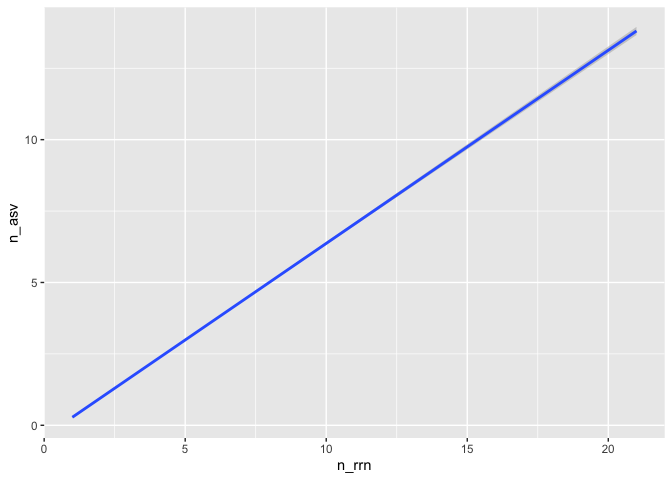
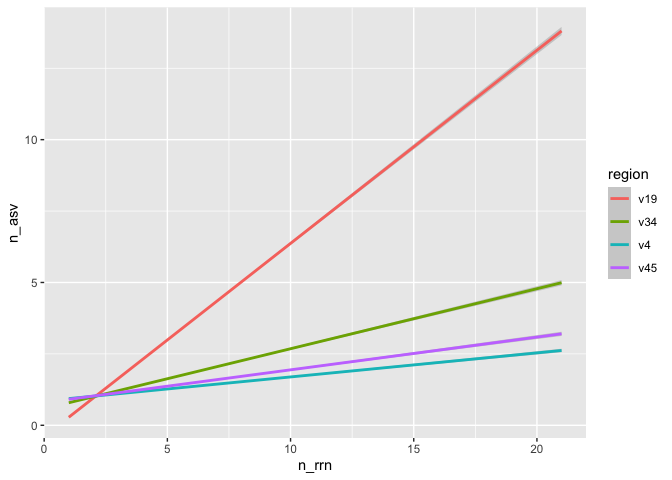
Combine the count_tibble files and update genome-level exploratory analysis, closes #23

diff --git a/exploratory/2020-09-09-genome-sens-spec.md b/exploratory/2020-09-09-genome-sens-spec.md
@@ -11,29 +11,27 @@ Pat Schloss
 
 Our analysis will use full length sequences
 
-    fl <- read_tsv(here("data/v19/rrnDB.count_tibble"))
-
-    ## Parsed with column specification:
-    ## cols(
-    ##   asv = col_character(),
-    ##   genome = col_character(),
-    ##   count = col_double()
-    ## )
+    count_tibble <- read_tsv(here("data/processed/rrnDB.count_tibble"),
+                                                     col_types = "cccd")
 
 We want to count and plot the number of copies per genome
 
-    fl %>%
+    count_tibble %>%
+        filter(region == "v19") %>%
         group_by(genome) %>%
         summarize(n_rrn = sum(count), .groups="drop") %>%
         ggplot(aes(x=n_rrn)) + geom_histogram(binwidth=1)
 
 ![](2020-09-09-genome-sens-spec_files/figure-gfm/n_rrn-1.png)<!-- -->
 
-    fl %>%
+    count_tibble %>%
+        filter(region == "v19") %>%
         group_by(genome) %>%
-        summarize(n_rrn = sum(count), .groups="drop") %>%
+        summarize(n_rrn = sum(count)) %>%
         count(n_rrn) %>%
         mutate(fraction = n / sum(n))
+
+    ## `summarise()` ungrouping output (override with `.groups` argument)
 
     ## # A tibble: 20 x 3
     ##    n_rrn     n  fraction
@@ -69,171 +67,65 @@ Considering most genomes have multiple copes of the *rrn* operon, we
 need to know whether they all have the same ASV. Otherwise we run the
 risk of splitting a single genome into multiple ASVs.
 
-    fl %>% 
-        group_by(genome) %>%
+    count_tibble %>% 
+        group_by(region, genome) %>%
         summarize(n_asv = n(), n_rrn = sum(count), .groups="drop") %>%
-        group_by(n_rrn) %>%
+        group_by(region, n_rrn) %>%
         summarize(med_n_asv = median(n_asv),
+                            mean_n_asv = mean(n_asv),
                             lq_n_asv = quantile(n_asv, prob=0.25),
-                            uq_n_asv = quantile(n_asv, prob=0.75))
+                            uq_n_asv = quantile(n_asv, prob=0.75)) %>%
+        filter(n_rrn == 7)
 
-    ## `summarise()` ungrouping output (override with `.groups` argument)
+    ## `summarise()` regrouping output by 'region' (override with `.groups` argument)
 
-    ## # A tibble: 20 x 4
-    ##    n_rrn med_n_asv lq_n_asv uq_n_asv
-    ##    <dbl>     <dbl>    <dbl>    <dbl>
-    ##  1     1       1        1        1  
-    ##  2     2       1        1        2  
-    ##  3     3       1        1        2  
-    ##  4     4       2        1        2  
-    ##  5     5       3        1        4  
-    ##  6     6       3        1        4  
-    ##  7     7       5        3        6  
-    ##  8     8       6        4        7  
-    ##  9     9       7        5        8  
-    ## 10    10       7        5        9  
-    ## 11    11       8        6        9  
-    ## 12    12       9        7       10  
-    ## 13    13       9        7       11  
-    ## 14    14       9        8       11  
-    ## 15    15      11        9       14  
-    ## 16    16      10        9       14  
-    ## 17    17      14.5     12.5     16.2
-    ## 18    18      14       14       14  
-    ## 19    19      17       17       17  
-    ## 20    21      11       11       11
+    ## # A tibble: 4 x 6
+    ## # Groups:   region [4]
+    ##   region n_rrn med_n_asv mean_n_asv lq_n_asv uq_n_asv
+    ##   <chr>  <dbl>     <dbl>      <dbl>    <dbl>    <dbl>
+    ## 1 v19        7         5       4.51        3        6
+    ## 2 v34        7         2       2.10        1        3
+    ## 3 v4         7         1       1.48        1        2
+    ## 4 v45        7         1       1.64        1        2
 
-    fl %>% 
-        group_by(genome) %>%
+    count_tibble %>% 
+        group_by(region, genome) %>%
         summarize(n_asv = n(), n_rrn = sum(count), .groups="drop") %>%
-        ggplot(aes(x=n_rrn, y=n_asv)) + geom_smooth(method="lm")
+        ggplot(aes(x=n_rrn, y=n_asv, color=region)) + geom_smooth(method="lm")
 
     ## `geom_smooth()` using formula 'y ~ x'
 
 ![](2020-09-09-genome-sens-spec_files/figure-gfm/unnamed-chunk-3-1.png)<!-- -->
 
 Surprisingly (or not!) the number of ASVs increases at a rate of about 2
-ASVs per 3 copies of *rrn* operon in the genome.
+ASVs per 3 copies of *rrn* operon in the genome. The sub regions of the
+16S rRNA region have few ASVs per *rrn* operon.
 
 ### Determine whether an ASV is unique to genomes they’re found in
 
 Instead of looking at the number of ASVs per genome, we want to see the
 number of genomes per ASV.
 
-    fl %>%
-        group_by(asv) %>%
+    count_tibble %>%
+        group_by(region, asv) %>%
         summarize(n_genomes = n()) %>%
         count(n_genomes) %>%
-        mutate(fraction = n/sum(n))
+        mutate(fraction = n/sum(n)) %>%
+        filter(n_genomes == 1)
 
-    ## `summarise()` ungrouping output (override with `.groups` argument)
+    ## `summarise()` regrouping output by 'region' (override with `.groups` argument)
 
-    ## # A tibble: 98 x 3
-    ##    n_genomes     n fraction
-    ##        <int> <int>    <dbl>
-    ##  1         1 19246  0.824  
-    ##  2         2  2037  0.0872 
-    ##  3         3   675  0.0289 
-    ##  4         4   354  0.0152 
-    ##  5         5   234  0.0100 
-    ##  6         6   116  0.00497
-    ##  7         7    99  0.00424
-    ##  8         8    71  0.00304
-    ##  9         9    73  0.00312
-    ## 10        10    44  0.00188
-    ## # … with 88 more rows
+    ## # A tibble: 4 x 4
+    ## # Groups:   region [4]
+    ##   region n_genomes     n fraction
+    ##   <chr>      <int> <int>    <dbl>
+    ## 1 v19            1 19246    0.824
+    ## 2 v34            1  7246    0.779
+    ## 3 v4             1  4592    0.759
+    ## 4 v45            1  5717    0.778
 
 We see that will full length sequences, that 82% of the ASVs were unique
-to a genome.
-
-### Does the sensitivity and specificity change if we look at a shorter region of the gene?
-
-We know that the V4 region is less diverse than the full length
-sequence. So does the number of ASVs per genome differ than for full
-length sequences? Are ASVs as specific when using the V4 region compared
-to full length sequences?
-
-    v_four <- read_tsv(here("data/v4/rrnDB.count_tibble"))
-
-    ## Parsed with column specification:
-    ## cols(
-    ##   asv = col_character(),
-    ##   genome = col_character(),
-    ##   count = col_double()
-    ## )
-
-    v_four %>% 
-        group_by(genome) %>%
-        summarize(n_asv = n(), n_rrn = sum(count), .groups="drop") %>%
-        group_by(n_rrn) %>%
-        summarize(mean_n_asv = mean(n_asv),
-                            lq_n_asv = quantile(n_asv, prob=0.25),
-                            uq_n_asv = quantile(n_asv, prob=0.75))
-
-    ## `summarise()` ungrouping output (override with `.groups` argument)
-
-    ## # A tibble: 20 x 4
-    ##    n_rrn mean_n_asv lq_n_asv uq_n_asv
-    ##    <dbl>      <dbl>    <dbl>    <dbl>
-    ##  1     1       1           1        1
-    ##  2     2       1.07        1        1
-    ##  3     3       1.08        1        1
-    ##  4     4       1.16        1        1
-    ##  5     5       1.27        1        1
-    ##  6     6       1.19        1        1
-    ##  7     7       1.48        1        2
-    ##  8     8       1.66        1        2
-    ##  9     9       1.53        1        2
-    ## 10    10       1.82        1        2
-    ## 11    11       2.01        1        2
-    ## 12    12       1.80        1        2
-    ## 13    13       1.73        1        2
-    ## 14    14       2.09        1        2
-    ## 15    15       2.52        1        3
-    ## 16    16       1.6         1        2
-    ## 17    17       3.6         1        4
-    ## 18    18       2           2        2
-    ## 19    19       3           3        3
-    ## 20    21       1           1        1
-
-    v_four %>% 
-        group_by(genome) %>%
-        summarize(n_asv = n(), n_rrn = sum(count), .groups="drop") %>%
-        ggplot(aes(x=n_rrn, y=n_asv)) + geom_smooth(method="lm")
-
-    ## `geom_smooth()` using formula 'y ~ x'
-
-![](2020-09-09-genome-sens-spec_files/figure-gfm/unnamed-chunk-5-1.png)<!-- -->
-
-The number of ASVs per copy of *rrn* operon is lower than for full
-length sequences. We find 1.5 ASV per 10 copies of the *rrn* operon.
-
-Next, let’s look at the specificity of an ASV for a genome
-
-    v_four %>%
-        group_by(asv) %>%
-        summarize(n_genomes = n()) %>%
-        count(n_genomes) %>%
-        mutate(fraction = n/sum(n))
-
-    ## `summarise()` ungrouping output (override with `.groups` argument)
-
-    ## # A tibble: 80 x 3
-    ##    n_genomes     n fraction
-    ##        <int> <int>    <dbl>
-    ##  1         1  4592  0.759  
-    ##  2         2   633  0.105  
-    ##  3         3   260  0.0430 
-    ##  4         4   120  0.0198 
-    ##  5         5    80  0.0132 
-    ##  6         6    49  0.00810
-    ##  7         7    40  0.00661
-    ##  8         8    31  0.00512
-    ##  9         9    25  0.00413
-    ## 10        10    22  0.00364
-    ## # … with 70 more rows
-
-We find that about 76% of ASVs using the V4 region were specific to a
+to a genome. For the subregions, about 76% of the ASVs were unique to a
 genome.
 
 ### To be determined…
